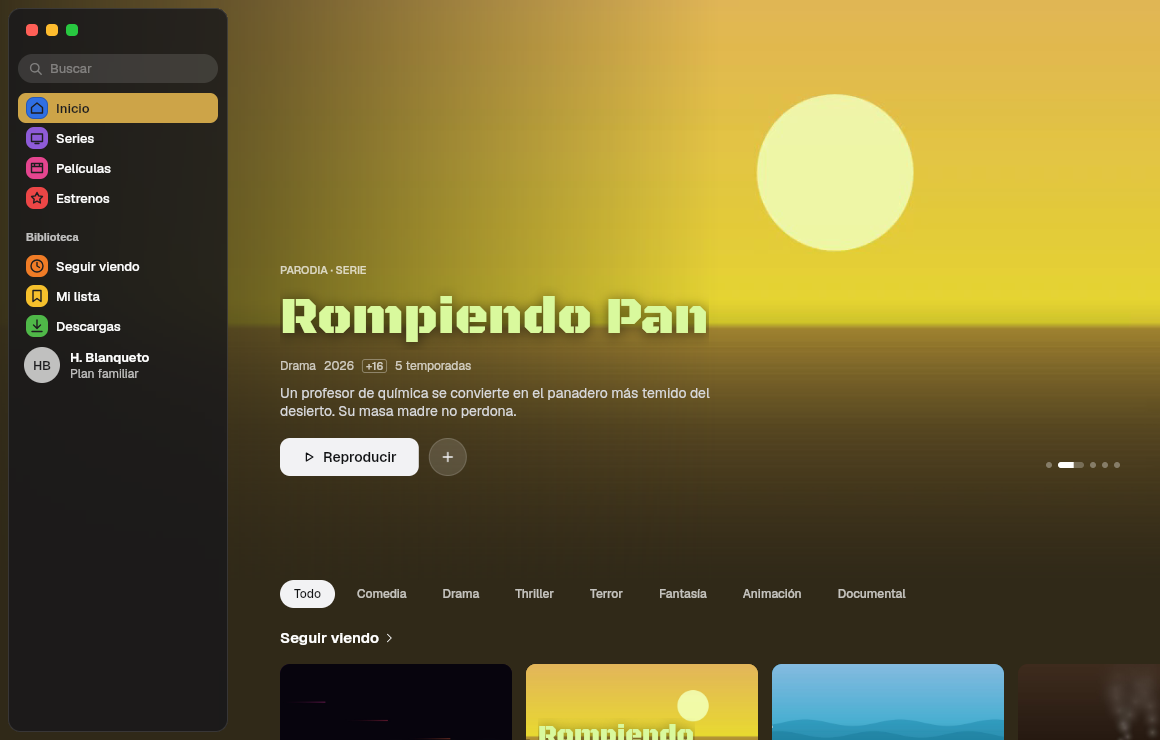
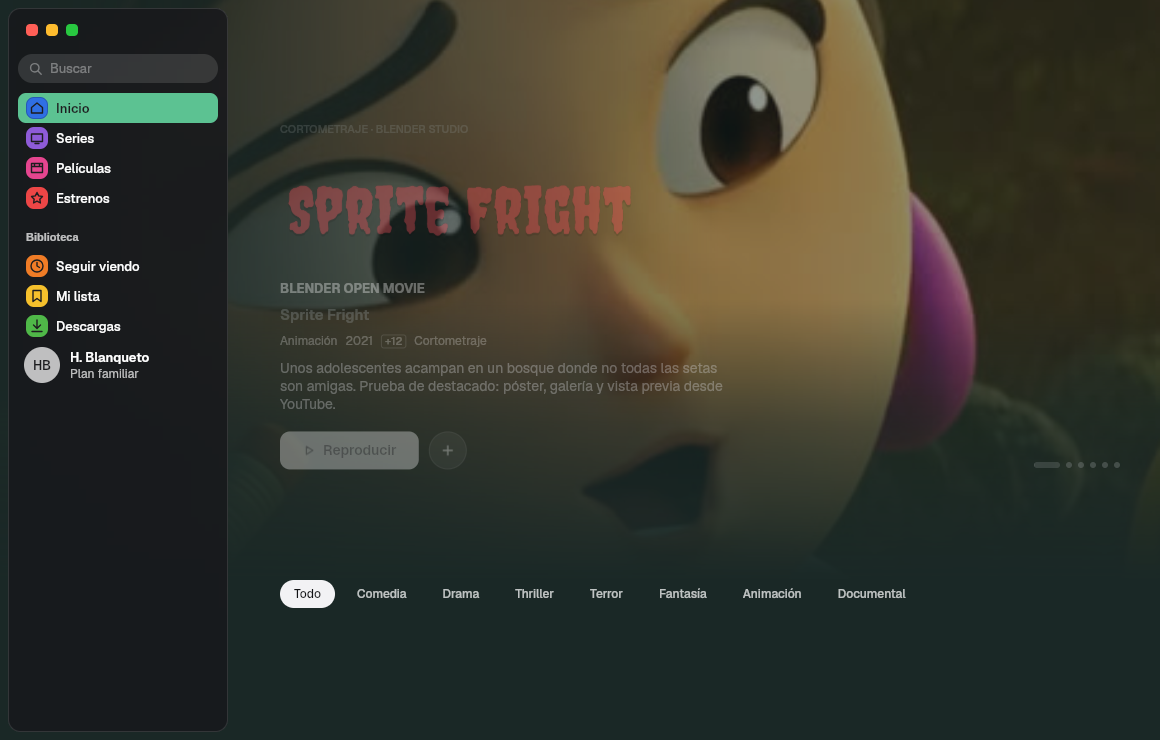
feat(marea): el destacado de prueba pasa a «Sprite Fright», de Blender Studio
Fuera las imágenes de Jujutsu Kaisen y el tráiler de Netflix, que no
tenían licencia de uso. Lo sustituye «Sprite Fright» (2021), película
abierta de Blender Studio con licencia CC BY 4.0:
https://studio.blender.org/projects/sprite-fright/pages/about/

- Póster y tres fotogramas recortados del MKV de archive.org
  (sprite-fright-2021); el póster oficial no, porque lleva logos que la
  licencia excluye.
- El título es texto en Creepster (OFL), no el logo de la película.
- La vista previa sigue saliendo de YouTube (canal de Blender Studio,
  _cMxraX_5RE), así que la prueba de VideoStream::open_uris no cambia.
- NOTICE, capítulo 15 y la captura marea-dark.png al día.

Claude-Session: https://claude.ai/code/session_01F89v1wCb4oyoQSQRBE2Edx

diff --git a/crates/marea/src/catalog.rs b/crates/marea/src/catalog.rs
@@ -351,18 +351,18 @@ pub const CATALOG: [Title; 21] = [
         series: true,
     },
     Title {
-        id: "jjk-netflix",
-        name: "JJK Showdown The Movie",
-        logo: logo("Bangers", 400, 52.0, Rgba::rgb8(0xff, 0xff, 0xff)),
+        id: "sprite-fright",
+        name: "Sprite Fright",
+        logo: logo("Creepster", 400, 52.0, Rgba::rgb8(0xff, 0x4d, 0x5a)),
         art: (
             160.0,
-            Rgba::rgb8(0xe5, 0x09, 0x14),
-            Rgba::rgb8(0x14, 0x06, 0x24),
+            Rgba::rgb8(0x2e, 0x8b, 0x57),
+            Rgba::rgb8(0x0b, 0x14, 0x24),
         ),
         genre: Genre::Animation,
-        kind: "Película · Collab especial con Netflix",
-        meta: ["Animación", "2026", "+16", "Película"],
-        lede: "Shinjuku, cuenta atrás. Prueba de destacado: póster, galería y vista previa desde YouTube.",
+        kind: "Cortometraje · Blender Studio",
+        meta: ["Animación", "2021", "+12", "Cortometraje"],
+        lede: "Unos adolescentes acampan en un bosque donde no todas las setas son amigas. Prueba de destacado: póster, galería y vista previa desde YouTube.",
         series: false,
     },
 ];
@@ -374,7 +374,7 @@ pub fn title(id: &str) -> &'static Title {
         .unwrap_or(&CATALOG[0])
 }
 
-pub const FEATURED: [&str; 6] = ["jjk-netflix", "orilla", "pan", "neon", "raras", "tronos"];
+pub const FEATURED: [&str; 6] = ["sprite-fright", "orilla", "pan", "neon", "raras", "tronos"];
 
 #[derive(PartialEq)]
 pub struct Gallery {
@@ -386,14 +386,14 @@ pub struct Gallery {
 }
 
 const GALLERIES: [Gallery; 1] = [Gallery {
-    id: "jjk-netflix",
-    franchise: "Jujutsu Kaisen",
-    logo: "jjk-netflix-logo.png",
-    poster: "jjk-netflix-poster.jpg",
+    id: "sprite-fright",
+    franchise: "Blender Open Movie",
+    logo: "sprite-fright-logo.png",
+    poster: "sprite-fright-poster.jpg",
     stills: [
-        "jjk-netflix-1.jpg",
-        "jjk-netflix-2.jpg",
-        "jjk-netflix-3.jpg",
+        "sprite-fright-1.jpg",
+        "sprite-fright-2.jpg",
+        "sprite-fright-3.jpg",
     ],
 }];
 
@@ -503,8 +503,8 @@ pub const SHELVES: [Shelf; 6] = [
         ],
     },
     Shelf {
-        name: "Collab especial con Netflix JJK",
+        name: "Películas abiertas",
         style: ShelfStyle::Wide,
-        entries: &[entry("jjk-netflix", Some("Tráiler · YouTube"), None)],
+        entries: &[entry("sprite-fright", Some("Cortometraje · YouTube"), None)],
     },
 ];

diff --git a/crates/marea/src/assets.rs b/crates/marea/src/assets.rs
@@ -36,7 +36,7 @@ fn media() -> PathBuf {
     )
 }
 
-const YOUTUBE: [(&str, &str); 1] = [("jjk-netflix", "Jgt6gGNtleE")];
+const YOUTUBE: [(&str, &str); 1] = [("sprite-fright", "_cMxraX_5RE")];
 
 // The GPU decoders only take H.264 in MP4; YouTube serves it apart from the audio above 360p.
 const YOUTUBE_FORMAT: &str =

diff --git a/docs/barrierkit/15-apps-de-prueba.en.md b/docs/barrierkit/15-apps-de-prueba.en.md
@@ -117,14 +117,15 @@ A movie and TV app that tests the kit with media (`video` feature):
 - Horizontal shelves (horizontal `ScrollView`) with cover art and video
   previews.
 - Genre chips, media buttons and a player.
-- A test featured item, "JJK Showdown The Movie", that shows the poster and
-  three images with a crossfade. With the pointer still over it for 2 s, it
-  plays the start of the trailer from YouTube (resolved by `yt-dlp`). The
-  "Collab especial con Netflix JJK" shelf opens the same trailer.
+- A test featured item, "Sprite Fright", that shows the poster and three
+  images with a crossfade. With the pointer still over it for 2 s, it plays
+  the start of the short film from YouTube (resolved by `yt-dlp`). The
+  "Películas abiertas" ("Open movies") shelf opens the same video.
 
 The test videos and frames are generated with
-`crates/marea/media/generate.mjs`, except the `jjk-netflix-*` files in
-`media/stills/`, which are images supplied for that test. The screenshot was made without a GPU: the
+`crates/marea/media/generate.mjs`, except the `sprite-fright-*` files in
+`media/stills/`: frames from "Sprite Fright" (Blender Studio, CC BY 4.0) and
+a title drawn with Creepster (see `NOTICE`). The screenshot was made without a GPU: the
 video was decoded on the CPU (`Decoding::Cpu`).
 
 Next: [16. Frequently asked questions](16-preguntas.en.md).

diff --git a/docs/barrierkit/15-apps-de-prueba.md b/docs/barrierkit/15-apps-de-prueba.md
@@ -116,14 +116,15 @@ Una app de cine y series que prueba el kit con medios (feature `video`):
 - Estanterías horizontales (`ScrollView` horizontal) con carátulas y vista
   previa en vídeo.
 - Chips de género, botones de medios y un reproductor.
-- Un destacado de prueba, «JJK Showdown The Movie», que muestra el póster y
-  tres imágenes con fundido. Con el ratón quieto 2 s sobre él, reproduce el
-  comienzo del tráiler desde YouTube (lo resuelve `yt-dlp`). La fila «Collab
-  especial con Netflix JJK» abre el mismo tráiler.
+- Un destacado de prueba, «Sprite Fright», que muestra el póster y tres
+  imágenes con fundido. Con el ratón quieto 2 s sobre él, reproduce el
+  comienzo del cortometraje desde YouTube (lo resuelve `yt-dlp`). La fila
+  «Películas abiertas» abre el mismo vídeo.
 
 Los vídeos y fotogramas de prueba se generan con
-`crates/marea/media/generate.mjs`, salvo los `jjk-netflix-*` de
-`media/stills/`, que son imágenes aportadas para esa prueba. La captura se hizo sin GPU: el vídeo se
+`crates/marea/media/generate.mjs`, salvo los `sprite-fright-*` de
+`media/stills/`: fotogramas de «Sprite Fright» (Blender Studio, CC BY 4.0) y
+un título dibujado con Creepster (ver `NOTICE`). La captura se hizo sin GPU: el vídeo se
 decodificó por CPU (`Decoding::Cpu`).
 
 Siguiente: [16. Preguntas frecuentes](16-preguntas.md).
